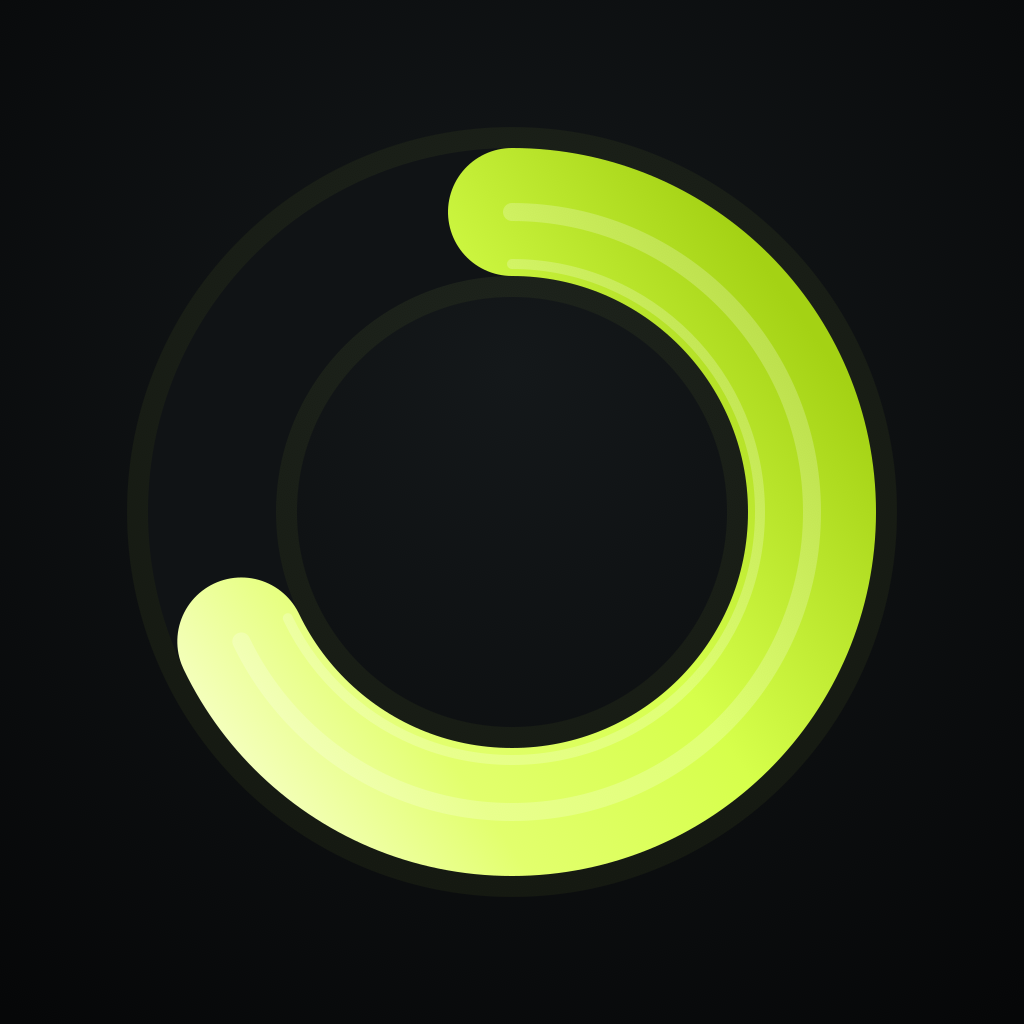
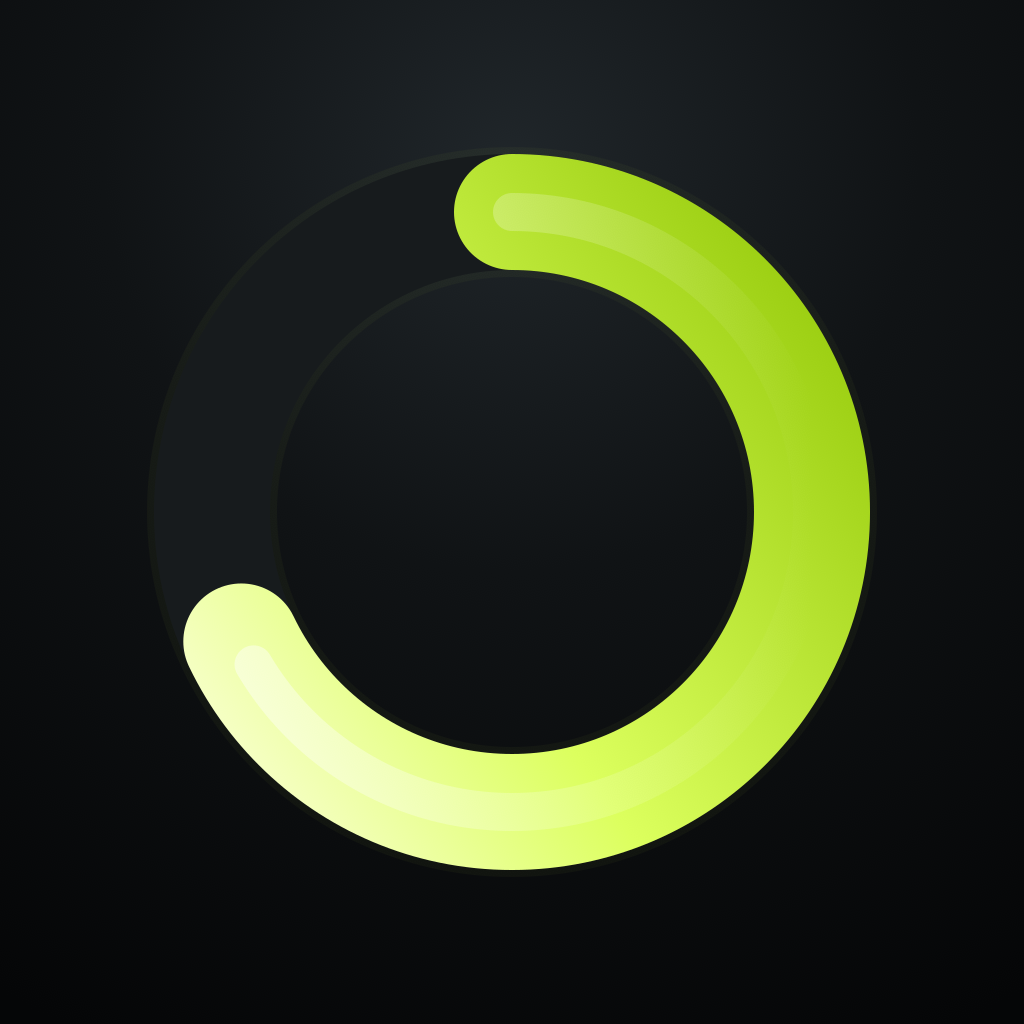
图标改为玻璃管质感（高光渐变，无实线边）

diff --git a/sw.js b/sw.js
@@ -1,5 +1,5 @@
 /* 离线缓存：让 App 在没网的时候也能打开 */
-const CACHE = 'ledger-v50';
+const CACHE = 'ledger-v51';
 const ASSETS = [
   './',
   './index.html',
